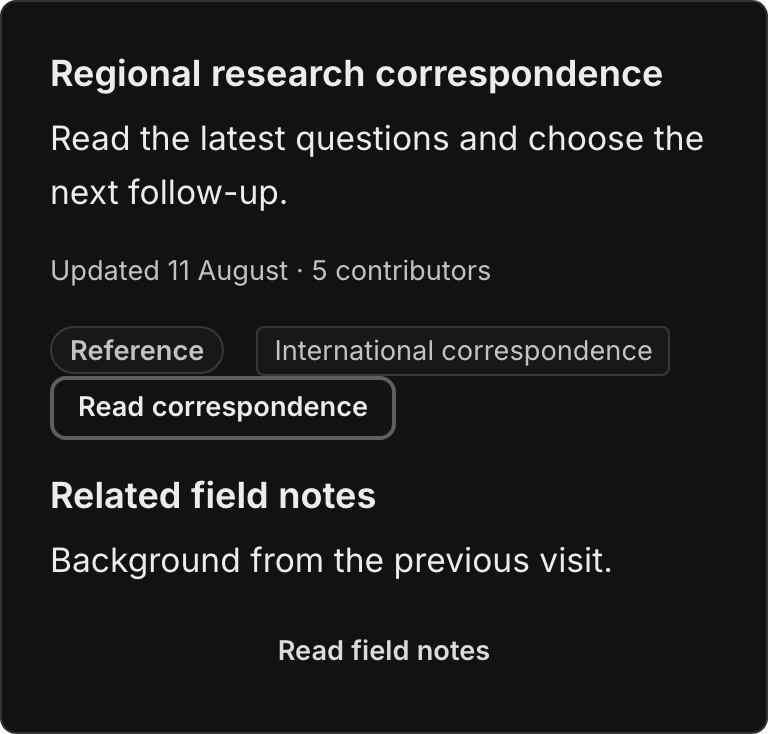
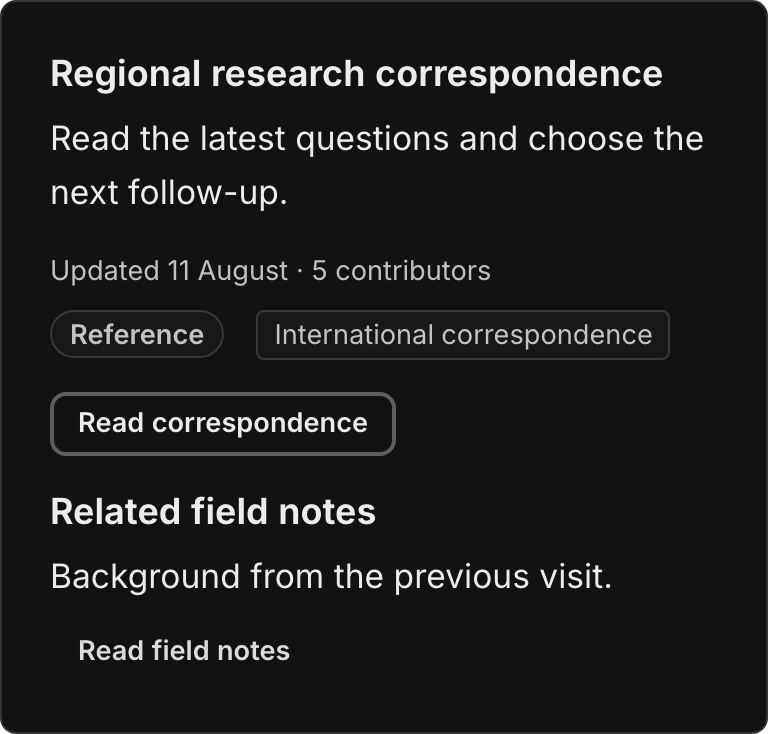
Compose crowded Card spacing with Stack

diff --git a/src/components/display/card/card.examples.tsx b/src/components/display/card/card.examples.tsx
@@ -1,4 +1,5 @@
 import { defineComponentReviewPostures } from "../../../../catalogue/review-postures.ts";
+import { Stack } from "../../layout/stack/stack.tsx";
 import { Button } from "../../core/button/button.tsx";
 import { Badge } from "../badge/badge.tsx";
 import { Tag } from "../tag/tag.tsx";
@@ -36,43 +37,39 @@ function DottedExample() {
 
 function CrowdedExample() {
   return (
-    <Card
-      style={{
-        maxWidth: "24rem",
-        display: "grid",
-        gap: "var(--discern-rhythm-item)",
-      }}
-    >
-      <h3>Regional research correspondence</h3>
-      <p>Read the latest questions and choose the next follow-up.</p>
-      <p
-        style={{
-          color: "var(--discern-color-ink-muted)",
-          fontSize: "var(--discern-font-size-xs)",
-        }}
-      >
-        Updated 11 August · 5 contributors
-      </p>
-      <div className="discern-example-row">
-        <Badge tone="neutral">Reference</Badge>
-        <Tag>International correspondence</Tag>
-      </div>
-      <p>
+    <Card style={{ maxWidth: "24rem" }}>
+      <Stack gap={4} align="start">
+        <Stack gap={2}>
+          <h3>Regional research correspondence</h3>
+          <p>Read the latest questions and choose the next follow-up.</p>
+        </Stack>
+        <Stack gap={2}>
+          <p
+            style={{
+              color: "var(--discern-color-ink-muted)",
+              fontSize: "var(--discern-font-size-xs)",
+            }}
+          >
+            Updated 11 August · 5 contributors
+          </p>
+          <div className="discern-example-row">
+            <Badge tone="neutral">Reference</Badge>
+            <Tag>International correspondence</Tag>
+          </div>
+        </Stack>
         <Button href="#correspondence" variant="secondary" size="sm">
           Read correspondence
         </Button>
-      </p>
-      <Card
-        raised
-        padding="none"
-        style={{ display: "grid", gap: "var(--discern-rhythm-item)" }}
-      >
-        <h4>Related field notes</h4>
-        <p>Background from the previous visit.</p>
-        <Button href="#field-notes" variant="ghost" size="sm">
-          Read field notes
-        </Button>
-      </Card>
+        <Card raised padding="none">
+          <Stack gap={2} align="start">
+            <h4>Related field notes</h4>
+            <p>Background from the previous visit.</p>
+            <Button href="#field-notes" variant="ghost" size="sm">
+              Read field notes
+            </Button>
+          </Stack>
+        </Card>
+      </Stack>
     </Card>
   );
 }

diff --git a/tests/content_structure_polish_test.tsx b/tests/content_structure_polish_test.tsx
@@ -33,6 +33,7 @@ Deno.test("content structures preserve full labels and current state within loca
       components: [
         "card",
         "button",
+        "stack",
         "badge",
         "tag",
         "tabs",
@@ -169,6 +170,36 @@ Deno.test("content structures preserve full labels and current state within loca
           }).evaluate((node) => node === document.activeElement),
         );
         assertEquals(await page.locator("a a, button a, a button").count(), 0);
+        const primary = await page.getByRole("link", {
+          name: "Read correspondence",
+          exact: true,
+        }).boundingBox();
+        const tags = await page.locator(".discern-example-row").boundingBox();
+        const title = await page.getByRole("heading", {
+          name: "Regional research correspondence",
+          exact: true,
+        }).boundingBox();
+        const nested = await page.getByRole("link", {
+          name: "Read field notes",
+          exact: true,
+        }).boundingBox();
+        const nestedTitle = await page.getByRole("heading", {
+          name: "Related field notes",
+          exact: true,
+        }).boundingBox();
+        assert(primary && tags && title && nested && nestedTitle);
+        assert(
+          primary.y - (tags.y + tags.height) >= 8,
+          "Card actions stay separated from metadata",
+        );
+        assert(
+          Math.abs(primary.x - title.x) < 1,
+          "Primary Card action follows the title alignment",
+        );
+        assert(
+          Math.abs(nested.x - nestedTitle.x) < 1,
+          "Nested Card action follows its heading alignment",
+        );
         for (const label of ["Read correspondence", "Read field notes"]) {
           const target = await page.getByRole("link", {
             name: label,
